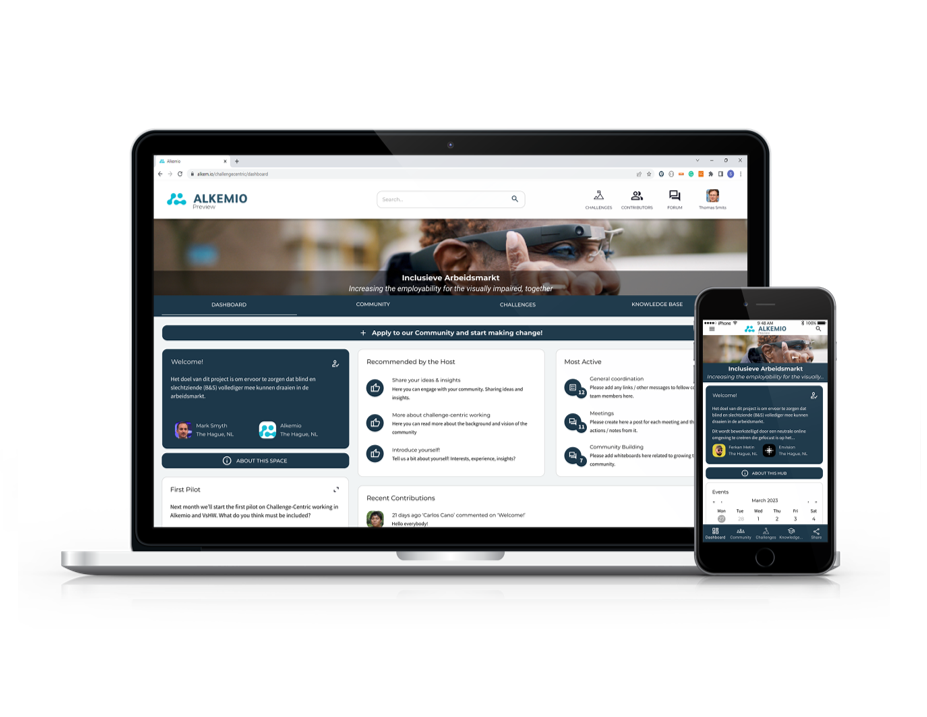
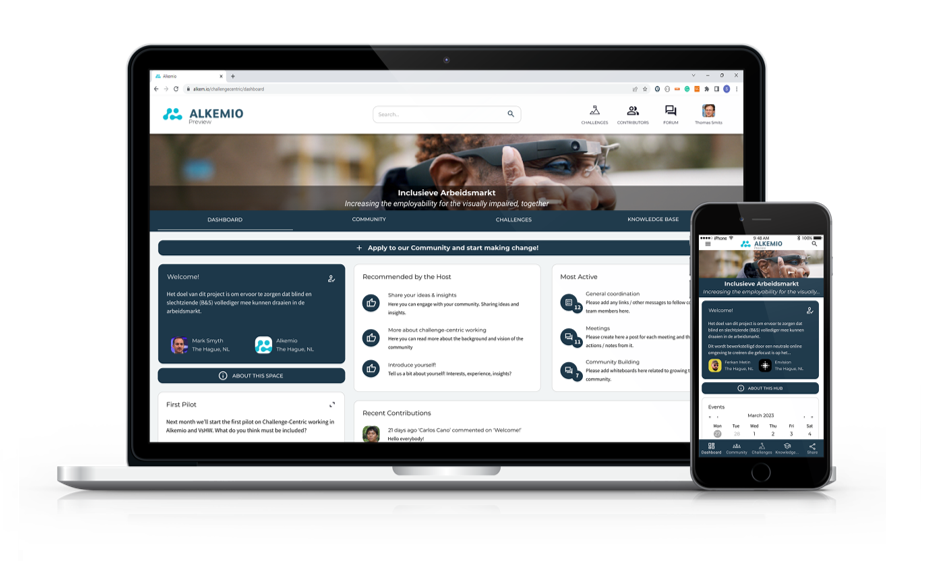
fine tuning

diff --git a/content/en/home-lr/3-purpose-driven/index.md b/content/en/home-lr/3-purpose-driven/index.md
@@ -6,11 +6,11 @@ weight: 30
 title: Purpose driven to benefit society
 
 # Section subtitle 
-summary: 'anchoring the mission via Steward Ownerhip
+summary: 'anchoring the mission with Steward Ownerhip
 
 - Ownership structure that legally binds the purpose of Alkemio to benefit society
 
-- Respect for personal data, algorithms to bring society together, open and transparent ways of working together'
+- Respect for personal data, algorithms to bring society together, open and transparent ways of working together
 <br/>
-<br/>
+<br/><br/><br/><br/>'
 ---

diff --git a/content/en/home-lr/1-digital-platform/index.md b/content/en/home-lr/1-digital-platform/index.md
@@ -10,6 +10,10 @@ title: A digital platform with a difference!
 # Order that this section appears on the page.
 weight: 10
 
+design:
+    spacing:
+        padding: ["300px", "0", "30px", "0"]
+
 summary: 'where openness, trust and a purpose to benefit society are key values
 
 - Where anyone who wants to make impact can contribute

diff --git a/content/en/home/4-key-aspects.md b/content/en/home/4-key-aspects.md
@@ -26,7 +26,7 @@ design:
   columns: '1'
   spacing:
     # Customize the section spacing. Order is top, right, bottom, left.
-    padding: ["0px", "0px","0px","0px"]
+    padding: ["30px", "0px","0px","0px"]
   view: showcase
   flip_alt_rows: true
 ---

diff --git a/content/en/home/3-carousel-widget.md b/content/en/home/3-carousel-widget.md
@@ -11,7 +11,7 @@ weight: 3
 
 design:
     spacing:
-        padding: ["20px", "0", "20px", "0"]
+        padding: ["30px", "0", "30px", "0"]
 
 content:
     slides:

diff --git a/content/en/home-lr/2-together-we-can/index.md b/content/en/home-lr/2-together-we-can/index.md
@@ -1,6 +1,6 @@
 ---
 # Section title
-title: Together we can
+title: Together we can 
 weight: 20
 
 summary: 'realize the ambitious vision and make impact  
